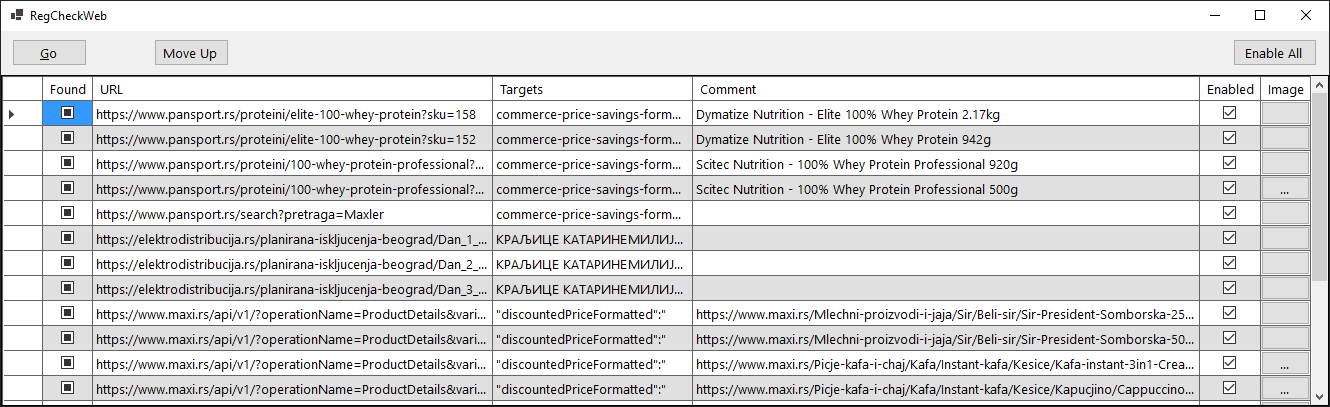
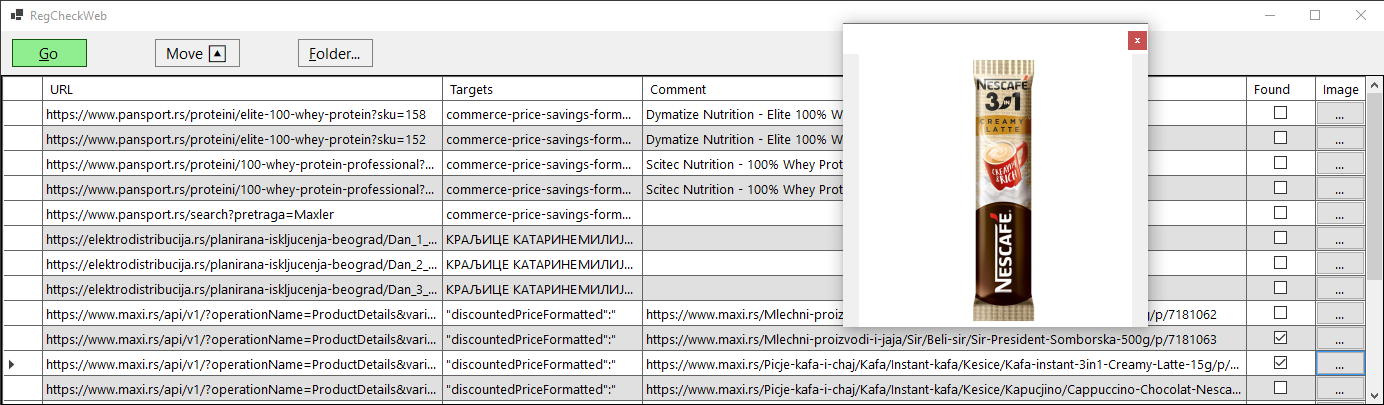
Small changes: improve design of FrmMain, check saved setts, remove Enable column, add Folder... button Update README.md & FrmMain image

diff --git a/RegCheckWeb/FrmMain.Designer.cs b/RegCheckWeb/FrmMain.Designer.cs
@@ -32,19 +32,18 @@
             DataGridViewCellStyle dataGridViewCellStyle1 = new DataGridViewCellStyle();
             ds = new Ds();
             dgv = new DataGridView();
-            targetFoundDataGridViewCheckBoxColumn = new DataGridViewCheckBoxColumn();
             dgvcTargetFound = new DataGridViewTextBoxColumn();
             dgvcURL = new DataGridViewTextBoxColumn();
             targetStringDataGridViewTextBoxColumn = new DataGridViewTextBoxColumn();
             ctxTargetStrings = new ContextMenuStrip(components);
             tsmiPasteTargetStrings = new ToolStripMenuItem();
             dgvcComment = new DataGridViewTextBoxColumn();
-            dgvcEnabled = new DataGridViewCheckBoxColumn();
+            targetFoundDataGridViewCheckBoxColumn = new DataGridViewCheckBoxColumn();
             dgvcImage = new DataGridViewButtonColumn();
             bs = new BindingSource(components);
             pnlTop = new Panel();
+            btnAppFolderBrowse = new Button();
             btnPageOrderUp = new Button();
-            btnEnableAll = new Button();
             btnGo = new Button();
             ((System.ComponentModel.ISupportInitialize)ds).BeginInit();
             ((System.ComponentModel.ISupportInitialize)dgv).BeginInit();
@@ -66,7 +65,7 @@
             dgv.AlternatingRowsDefaultCellStyle = dataGridViewCellStyle1;
             dgv.AutoGenerateColumns = false;
             dgv.ColumnHeadersHeightSizeMode = DataGridViewColumnHeadersHeightSizeMode.AutoSize;
-            dgv.Columns.AddRange(new DataGridViewColumn[] { targetFoundDataGridViewCheckBoxColumn, dgvcTargetFound, dgvcURL, targetStringDataGridViewTextBoxColumn, dgvcComment, dgvcEnabled, dgvcImage });
+            dgv.Columns.AddRange(new DataGridViewColumn[] { dgvcTargetFound, dgvcURL, targetStringDataGridViewTextBoxColumn, dgvcComment, targetFoundDataGridViewCheckBoxColumn, dgvcImage });
             dgv.DataSource = bs;
             dgv.Dock = DockStyle.Fill;
             dgv.Location = new Point(0, 44);
@@ -75,16 +74,6 @@
             dgv.TabIndex = 0;
             dgv.CellClick += Dgv_CellClick;
             dgv.CellDoubleClick += Dgv_CellDoubleClick;
-            // 
-            // targetFoundDataGridViewCheckBoxColumn
-            // 
-            targetFoundDataGridViewCheckBoxColumn.AutoSizeMode = DataGridViewAutoSizeColumnMode.ColumnHeader;
-            targetFoundDataGridViewCheckBoxColumn.DataPropertyName = "IsTargetFound";
-            targetFoundDataGridViewCheckBoxColumn.HeaderText = "Found";
-            targetFoundDataGridViewCheckBoxColumn.Name = "targetFoundDataGridViewCheckBoxColumn";
-            targetFoundDataGridViewCheckBoxColumn.ReadOnly = true;
-            targetFoundDataGridViewCheckBoxColumn.ThreeState = true;
-            targetFoundDataGridViewCheckBoxColumn.Width = 50;
             // 
             // dgvcTargetFound
             // 
@@ -130,14 +119,16 @@
             dgvcComment.HeaderText = "Comment";
             dgvcComment.Name = "dgvcComment";
             // 
-            // dgvcEnabled
+            // targetFoundDataGridViewCheckBoxColumn
             // 
-            dgvcEnabled.AutoSizeMode = DataGridViewAutoSizeColumnMode.ColumnHeader;
-            dgvcEnabled.DataPropertyName = "Enabled";
-            dgvcEnabled.HeaderText = "Enabled";
-            dgvcEnabled.Name = "dgvcEnabled";
-            dgvcEnabled.Resizable = DataGridViewTriState.False;
-            dgvcEnabled.Width = 61;
+            targetFoundDataGridViewCheckBoxColumn.AutoSizeMode = DataGridViewAutoSizeColumnMode.ColumnHeader;
+            targetFoundDataGridViewCheckBoxColumn.DataPropertyName = "IsTargetFound";
+            targetFoundDataGridViewCheckBoxColumn.HeaderText = "Found";
+            targetFoundDataGridViewCheckBoxColumn.Name = "targetFoundDataGridViewCheckBoxColumn";
+            targetFoundDataGridViewCheckBoxColumn.ReadOnly = true;
+            targetFoundDataGridViewCheckBoxColumn.SortMode = DataGridViewColumnSortMode.Automatic;
+            targetFoundDataGridViewCheckBoxColumn.ThreeState = true;
+            targetFoundDataGridViewCheckBoxColumn.Width = 69;
             // 
             // dgvcImage
             // 
@@ -156,8 +147,8 @@
             // 
             // pnlTop
             // 
+            pnlTop.Controls.Add(btnAppFolderBrowse);
             pnlTop.Controls.Add(btnPageOrderUp);
-            pnlTop.Controls.Add(btnEnableAll);
             pnlTop.Controls.Add(btnGo);
             pnlTop.Dock = DockStyle.Top;
             pnlTop.Location = new Point(0, 0);
@@ -165,35 +156,42 @@
             pnlTop.Size = new Size(1179, 44);
             pnlTop.TabIndex = 1;
             // 
+            // btnAppFolderBrowse
+            // 
+            btnAppFolderBrowse.FlatStyle = FlatStyle.Popup;
+            btnAppFolderBrowse.Font = new Font("Segoe UI", 11.25F, FontStyle.Regular, GraphicsUnit.Point, 0);
+            btnAppFolderBrowse.Location = new Point(297, 8);
+            btnAppFolderBrowse.Name = "btnAppFolderBrowse";
+            btnAppFolderBrowse.Size = new Size(75, 28);
+            btnAppFolderBrowse.TabIndex = 3;
+            btnAppFolderBrowse.Text = "&Folder...";
+            btnAppFolderBrowse.UseVisualStyleBackColor = true;
+            btnAppFolderBrowse.Click += BtnAppFolderBrowse_Click;
+            // 
             // btnPageOrderUp
             // 
-            btnPageOrderUp.Location = new Point(153, 8);
+            btnPageOrderUp.FlatStyle = FlatStyle.Popup;
+            btnPageOrderUp.Font = new Font("Segoe UI", 11.25F, FontStyle.Regular, GraphicsUnit.Point, 0);
+            btnPageOrderUp.Location = new Point(154, 8);
+            btnPageOrderUp.Margin = new Padding(0);
             btnPageOrderUp.Name = "btnPageOrderUp";
-            btnPageOrderUp.Size = new Size(75, 27);
+            btnPageOrderUp.Size = new Size(85, 28);
             btnPageOrderUp.TabIndex = 2;
-            btnPageOrderUp.Text = "Move Up";
+            btnPageOrderUp.Text = "Move 🔼";
             btnPageOrderUp.UseVisualStyleBackColor = true;
             btnPageOrderUp.Click += BtnPageOrderUp_Click;
             // 
-            // btnEnableAll
-            // 
-            btnEnableAll.Anchor = AnchorStyles.Top | AnchorStyles.Right;
-            btnEnableAll.Location = new Point(1083, 8);
-            btnEnableAll.Name = "btnEnableAll";
-            btnEnableAll.Size = new Size(84, 27);
-            btnEnableAll.TabIndex = 1;
-            btnEnableAll.Text = "Enable All";
-            btnEnableAll.UseVisualStyleBackColor = true;
-            btnEnableAll.Click += BtnEnableAll_Click;
-            // 
             // btnGo
             // 
+            btnGo.BackColor = Color.LightGreen;
+            btnGo.FlatStyle = FlatStyle.Popup;
+            btnGo.Font = new Font("Segoe UI", 11.25F, FontStyle.Regular, GraphicsUnit.Point, 0);
             btnGo.Location = new Point(11, 8);
             btnGo.Name = "btnGo";
-            btnGo.Size = new Size(75, 27);
+            btnGo.Size = new Size(75, 28);
             btnGo.TabIndex = 0;
             btnGo.Text = "&Go";
-            btnGo.UseVisualStyleBackColor = true;
+            btnGo.UseVisualStyleBackColor = false;
             btnGo.Click += BtnGo_Click;
             // 
             // FrmMain
@@ -226,14 +224,13 @@
         private Button btnGo;
         private ContextMenuStrip ctxTargetStrings;
         private ToolStripMenuItem tsmiPasteTargetStrings;
-        private Button btnEnableAll;
         private Button btnPageOrderUp;
-        private DataGridViewCheckBoxColumn targetFoundDataGridViewCheckBoxColumn;
+        private Button btnAppFolderBrowse;
         private DataGridViewTextBoxColumn dgvcTargetFound;
         private DataGridViewTextBoxColumn dgvcURL;
         private DataGridViewTextBoxColumn targetStringDataGridViewTextBoxColumn;
         private DataGridViewTextBoxColumn dgvcComment;
-        private DataGridViewCheckBoxColumn dgvcEnabled;
+        private DataGridViewCheckBoxColumn targetFoundDataGridViewCheckBoxColumn;
         private DataGridViewButtonColumn dgvcImage;
     }
 }

diff --git a/RegCheckWeb/FrmMain.cs b/RegCheckWeb/FrmMain.cs
@@ -1,5 +1,4 @@
 using RegCheckWeb.Classes;
-using System;
 using System.Data;
 using System.Diagnostics;
 using System.Text.RegularExpressions;
@@ -31,11 +30,11 @@ namespace RegCheckWeb
                 //        page.Order = -page.Id;
                 //    Debug.WriteLine(page.Order);
                 //}
-
-                Width = Utils.ReadIntSetting(nameof(Width), Width);
-                Height = Utils.ReadIntSetting(nameof(Height), Height);
-                Left = Utils.ReadIntSetting(nameof(Left), Left);
-                Top = Utils.ReadIntSetting(nameof(Top), Top);
+                var screen = Screen.PrimaryScreen!.WorkingArea;
+                Width = Utils.ReadIntSetting(nameof(Width), Width, it => it > 100 && it <= screen.Width);
+                Height = Utils.ReadIntSetting(nameof(Height), Height, it => it > 100 && it <= screen.Height);
+                Left = Utils.ReadIntSetting(nameof(Left), Left, it => it >= 0 && it < screen.Width);
+                Top = Utils.ReadIntSetting(nameof(Top), Top, it => it >= 0 && it <= screen.Top);
 
                 var lastBackup = Utils.ReadDateTimeSetting("lastBackup", DateTime.MinValue);
                 if ((DateTime.Now - lastBackup).TotalDays >= 7)
@@ -62,10 +61,13 @@ namespace RegCheckWeb
                     page.SetIsTargetFoundNull();
                     page.SetTargetFoundNull();
                 }
-                Utils.SaveSetting(nameof(Width), Width.ToString());
-                Utils.SaveSetting(nameof(Height), Height.ToString());
-                Utils.SaveSetting(nameof(Left), Left.ToString());
-                Utils.SaveSetting(nameof(Top), Top.ToString());
+                if (WindowState == FormWindowState.Normal)
+                {
+                    Utils.SaveSetting(nameof(Width), Width.ToString());
+                    Utils.SaveSetting(nameof(Height), Height.ToString());
+                    Utils.SaveSetting(nameof(Left), Left.ToString());
+                    Utils.SaveSetting(nameof(Top), Top.ToString());
+                }
 
                 ds.WriteXml(dataSetFileName);
             }
@@ -86,7 +88,7 @@ namespace RegCheckWeb
 
             if (dgv.SelectedRows.Count == 0)
                 dgv.SelectAll();
-            var selected = dgv.SelectedRows;
+            var selected = dgv.SelectedRows.Cast<DataGridViewRow>().Reverse();
 
             dgv.SelectionMode = DataGridViewSelectionMode.FullRowSelect;
             foreach (DataGridViewRow row in selected)
@@ -95,7 +97,7 @@ namespace RegCheckWeb
                     continue;
                 bs.Position = row.Index;
                 var page = CurrentWebPage;
-                if (page != null && !page.IsTargetStringNull() && page.Enabled)
+                if (page != null && !page.IsTargetStringNull())
                 {
                     var chk = new Check(page.URL, page.TargetString);
                     var found = await chk.FindTarget();
@@ -107,7 +109,7 @@ namespace RegCheckWeb
                     }
                 }
             }
-            bs.Position = selected[0].Index;
+            bs.Position = selected.First().Index;
             dgv.SelectionMode = DataGridViewSelectionMode.RowHeaderSelect;
         }
 
@@ -194,15 +196,6 @@ namespace RegCheckWeb
                 CurrentWebPage.TargetString = Clipboard.GetText();
         }
 
-        private bool enableAll = true;
-        private void BtnEnableAll_Click(object sender, EventArgs e)
-        {
-            foreach (var page in ds.WebPages)
-                page.Enabled = enableAll;
-            enableAll = !enableAll;
-            btnEnableAll.Text = enableAll ? "Enable All" : "Disable All";
-        }
-
         private void BtnPageOrderUp_Click(object sender, EventArgs e)
         {
             if (CurrentWebPage == null)
@@ -213,6 +206,11 @@ namespace RegCheckWeb
                 return;
             var swapPage = ds.WebPages.First(it => it.Order == ords.Max());
             (swapPage.Order, CurrentWebPage.Order) = (CurrentWebPage.Order, swapPage.Order);
+        }
+
+        private void BtnAppFolderBrowse_Click(object sender, EventArgs e)
+        {
+            Utils.OpenFile(Directory.GetCurrentDirectory());
         }
 
         public WebPagesRow? CurrentWebPage

diff --git a/RegCheckWeb/Classes/Utils.cs b/RegCheckWeb/Classes/Utils.cs
@@ -19,14 +19,14 @@ namespace RegCheckWeb.Classes
             catch (Exception ex) { MessageBox.Show(ex.Message, "Go to Link"); }
         }
 
-        public static void OpenFile(string url)
+        public static void OpenFile(string filePath)
         {
             try
             {
                 Process.Start(new ProcessStartInfo()
                 {
                     UseShellExecute = true,
-                    FileName = url,
+                    FileName = filePath,
                 });
             }
             catch (Exception ex) { MessageBox.Show(ex.Message, "Open File"); }
@@ -52,11 +52,14 @@ namespace RegCheckWeb.Classes
                 Ds.Settings.AddSettingsRow(loc);
         }
 
-        public static int ReadIntSetting(string name, int defValue)
+        public static int ReadIntSetting(string name, int defValue, Func<int, bool> checkMethod)
         {
             var s = Ds.Settings.FindByName(name);
             if (s != null)
-                return int.Parse(s.Value);
+            {
+                var val = int.Parse(s.Value);
+                return checkMethod(val) ? val : defValue;
+            }
             return defValue;
         }
 

diff --git a/RegCheckWeb/FrmImage.cs b/RegCheckWeb/FrmImage.cs
@@ -17,8 +17,8 @@
                 slika = value;
                 pic.Image = new Bitmap(slika);
 
-                this.Width = pic.Image.Width + this.Width - pic.Width;
-                this.Height = pic.Image.Height + this.Height - pic.Height;
+                //this.Width = pic.Image.Width + this.Width - pic.Width;
+                //this.Height = pic.Image.Height + this.Height - pic.Height;
             }
         }
     }

diff --git a/RegCheckWeb/FrmImage.Designer.cs b/RegCheckWeb/FrmImage.Designer.cs
@@ -38,6 +38,7 @@
             pic.Location = new Point(0, 0);
             pic.Name = "pic";
             pic.Size = new Size(305, 273);
+            pic.SizeMode = PictureBoxSizeMode.Zoom;
             pic.TabIndex = 0;
             pic.TabStop = false;
             // 

diff --git a/README.md b/README.md
@@ -3,10 +3,6 @@
 ![Main window](RegCheckWeb.png)
 
 ## TODO
-- [x] Add Move Up button: moves up current web page (ordering pages)
-- [x] Add automatic Backup (every 7 days)
-- [x] Add web page (product) image
-- [ ] Remove Enable column, Enable All button
 - [ ] Add Groups/Categories as a parent to WebPages: DGV (name, webiste, enable)
 - [ ] Close the app if nothing is found (maybe after some delay so that user have time to access its interface)
 	- [ ] App should start in the background
